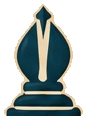
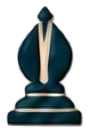
Patch 18: Terracotta theme rebuild

diff --git a/src/data/gameThemes.ts b/src/data/gameThemes.ts
@@ -158,7 +158,7 @@ export const GAME_THEMES: GameTheme[] = [
     description: 'Glazed ceramic teal and rust',
     board: makeBoard(
       'terracotta',
-      { x: 0.0591, y: 0.0575, w: 0.8818, h: 0.8851 },
+      { x: 0.0674, y: 0.0696, w: 0.8635, h: 0.8673 },
       {
         selectColor: 'rgba(255, 213, 79, 0.5)',
         lastMoveColor: 'rgba(255, 213, 79, 0.28)',
